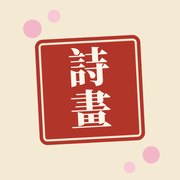
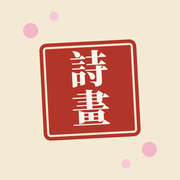
아이폰 홈 화면 아이콘 다시 그림
아이폰은 아이콘을 둥근 네모로 자르므로, 꽃잎을 모서리 안쪽으로 들이고 도장 크기를 맞춘 전용 apple-touch-icon 을 둔다.

Claude-Session: https://claude.ai/code/session_013GEQhN3ERRqfey7qzKR9Tk

diff --git a/index.html b/index.html
@@ -11,7 +11,7 @@
     <meta name="apple-mobile-web-app-status-bar-style" content="default" />
     <link rel="manifest" href="./manifest.webmanifest" />
     <link rel="icon" type="image/png" href="./favicon.png" />
-    <link rel="apple-touch-icon" href="./apple-touch-icon.png" />
+    <link rel="apple-touch-icon" sizes="180x180" href="./apple-touch-icon.png?v=2" />
     <link rel="preconnect" href="https://fonts.googleapis.com" />
     <link rel="preconnect" href="https://fonts.gstatic.com" crossorigin />
     <link href="https://fonts.googleapis.com/css2?family=Noto+Serif+KR:wght@400;600;800&family=Noto+Serif+TC:wght@500;700;900&display=swap" rel="stylesheet" />

diff --git a/public/sw.js b/public/sw.js
@@ -1,6 +1,6 @@
 // 詩畫 오프라인 지원: 한 번 연 파일은 저장해 두고, 인터넷이 없을 때 그것으로 연다.
 // 페이지(index.html)는 늘 새 판을 먼저 받아 오고, 받지 못하면 저장해 둔 판을 쓴다.
-const CACHE = 'sihwa-v2'
+const CACHE = 'sihwa-v3'
 
 self.addEventListener('install', (e) => {
   e.waitUntil(caches.open(CACHE).then((c) => c.addAll(['./', './manifest.webmanifest', './icon-192.png'])))
